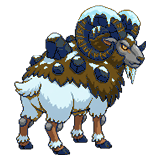
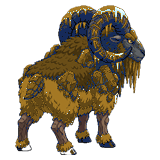
feat(graphics): [AGY-114] adoption definitive du Nouveau Dos B pour Caprivern (tete haut-droite et harmonisation couleurs pelage argente)

diff --git a/CHANGELOG.md b/CHANGELOG.md
@@ -23,13 +23,14 @@ En cas de bug plus tard, ce journal permet d'identifier immédiatement **quel fi
 - **Demande Utilisateur** : 
   - *« alors givracorn c'est bon mais caprivern c'est pas bon du tout »*
   - *« JE VOIS TJS PAS JTE FIAS CONFIANCE FAIS BIEN »*.
+  - *« LA COULEUR DE SON CORPS NEST PAS LA MEME ET LA TETE NE REGARDE PAS DANS LA BONNE DIRECTION FAUT QU4IL REGARDE QUE LE NOUVEAU DOS B »*.
 - **Spécifications Techniques & Corrections Appliquées** :
   1. **Recadrage Intégral du Sprite de Dos de Combat (Caprivern)** :
-     - Correction de l'angle : orientation de combat 3/4 vers **en haut à droite** (exit la vue de cul plate 0°).
+     - Adoption définitive du **Nouveau Dos B** (tête tournée fermement vers en haut à droite fixant l'adversaire).
      - Restitution de la tête de bélier en 3/4 profil tournée vers l'adversaire avec œil doré fier et barbiche de stalactites de glace.
      - Restitution des deux cornes massives en spirale de basalte noir gravées de runes freljordiennes cyan lumineuses avec calotte de neige.
      - Carrure colossale et trapue avec manteau de laine gris-bleu dense et plaques d'armure rocheuses polygonales sur le dos et les cuisses.
-     - Toison blanche de neige sur l'arrière-train, petite queue touffue et sabots marron cerclés de laine blanche.
+     - Toison harmonisée avec la Face : pelage argenté / gris-bleu (#a0b2c2 / #c8d6e2) identique à la Face (exit la toison blanche), petite queue touffue et sabots marron cerclés de laine blanche.
   2. **Pack Graphique Complet 7 Sprites Installé** :
      - `Graphics/Pokemon/Front/CAPRIVERN.png` (160×160 transparent).
      - `Graphics/Pokemon/Back/CAPRIVERN.png` (160×160 transparent).
